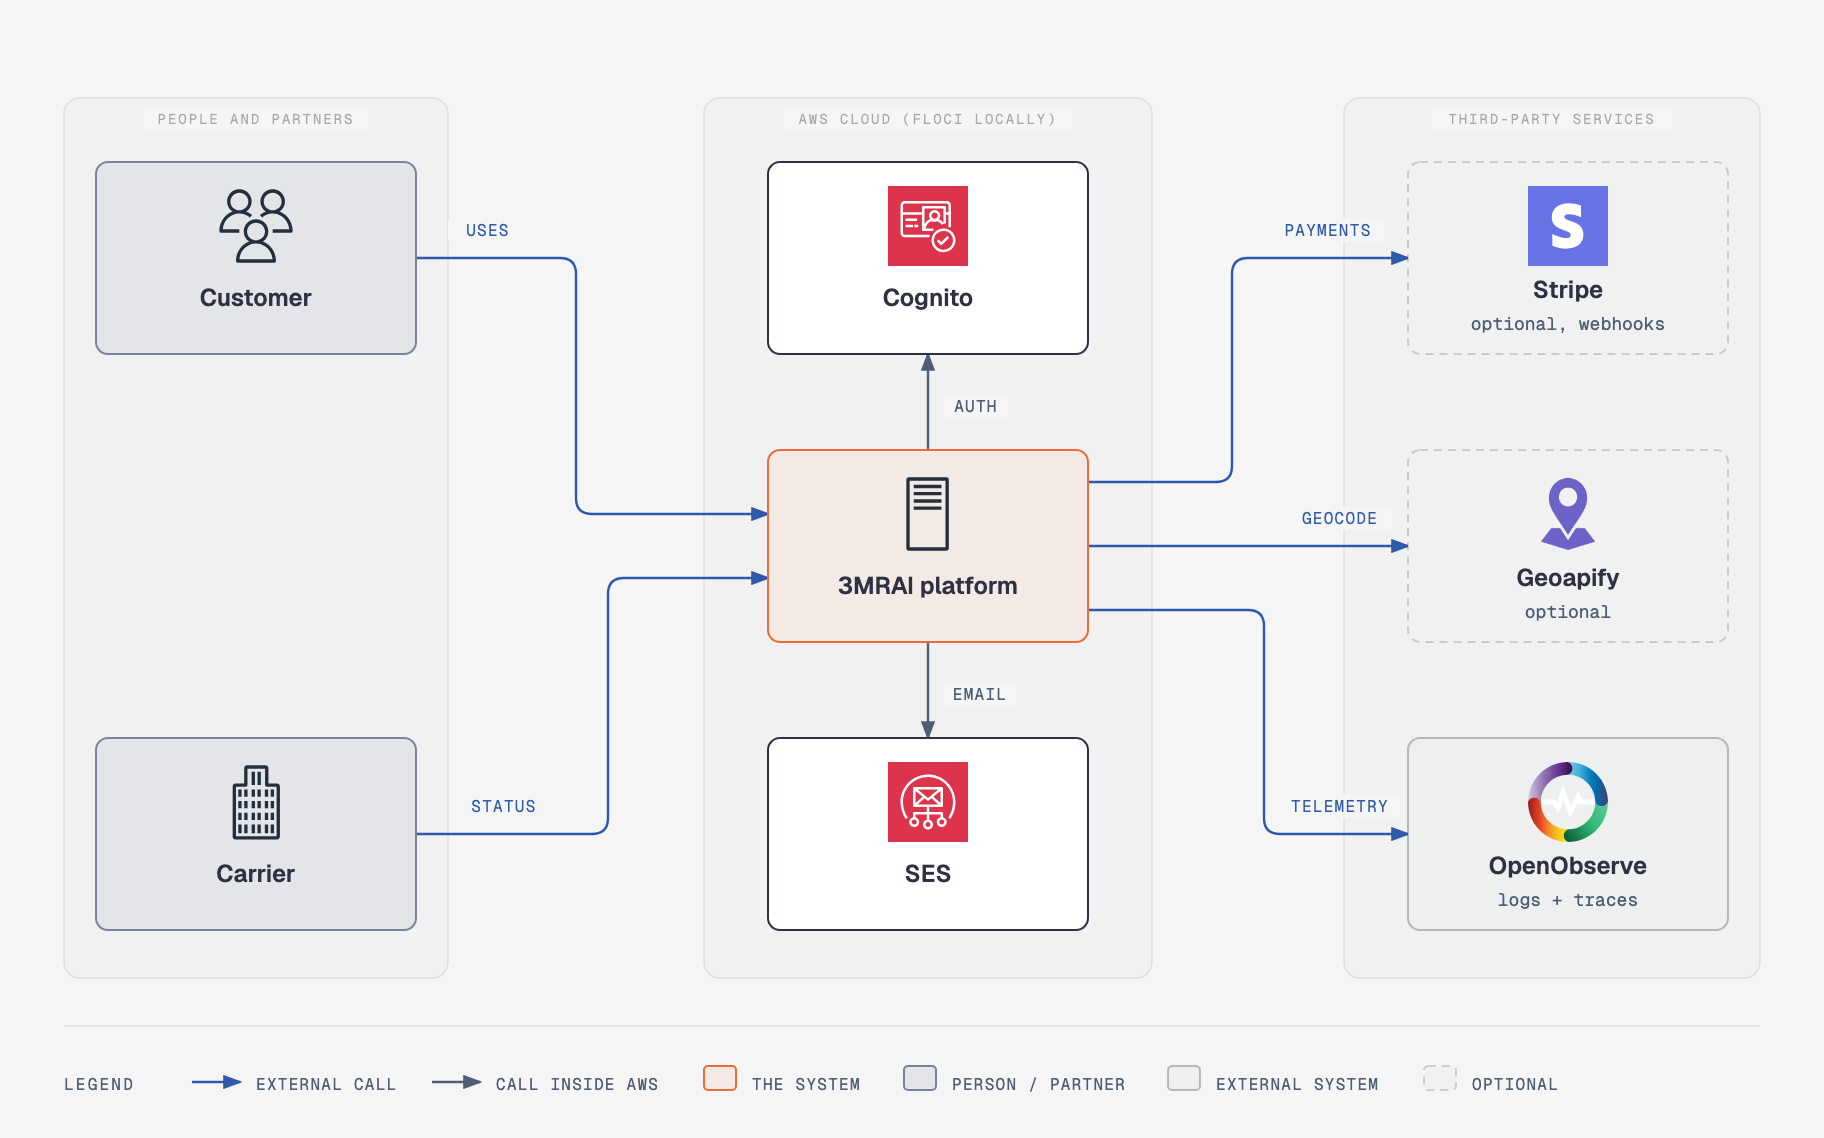
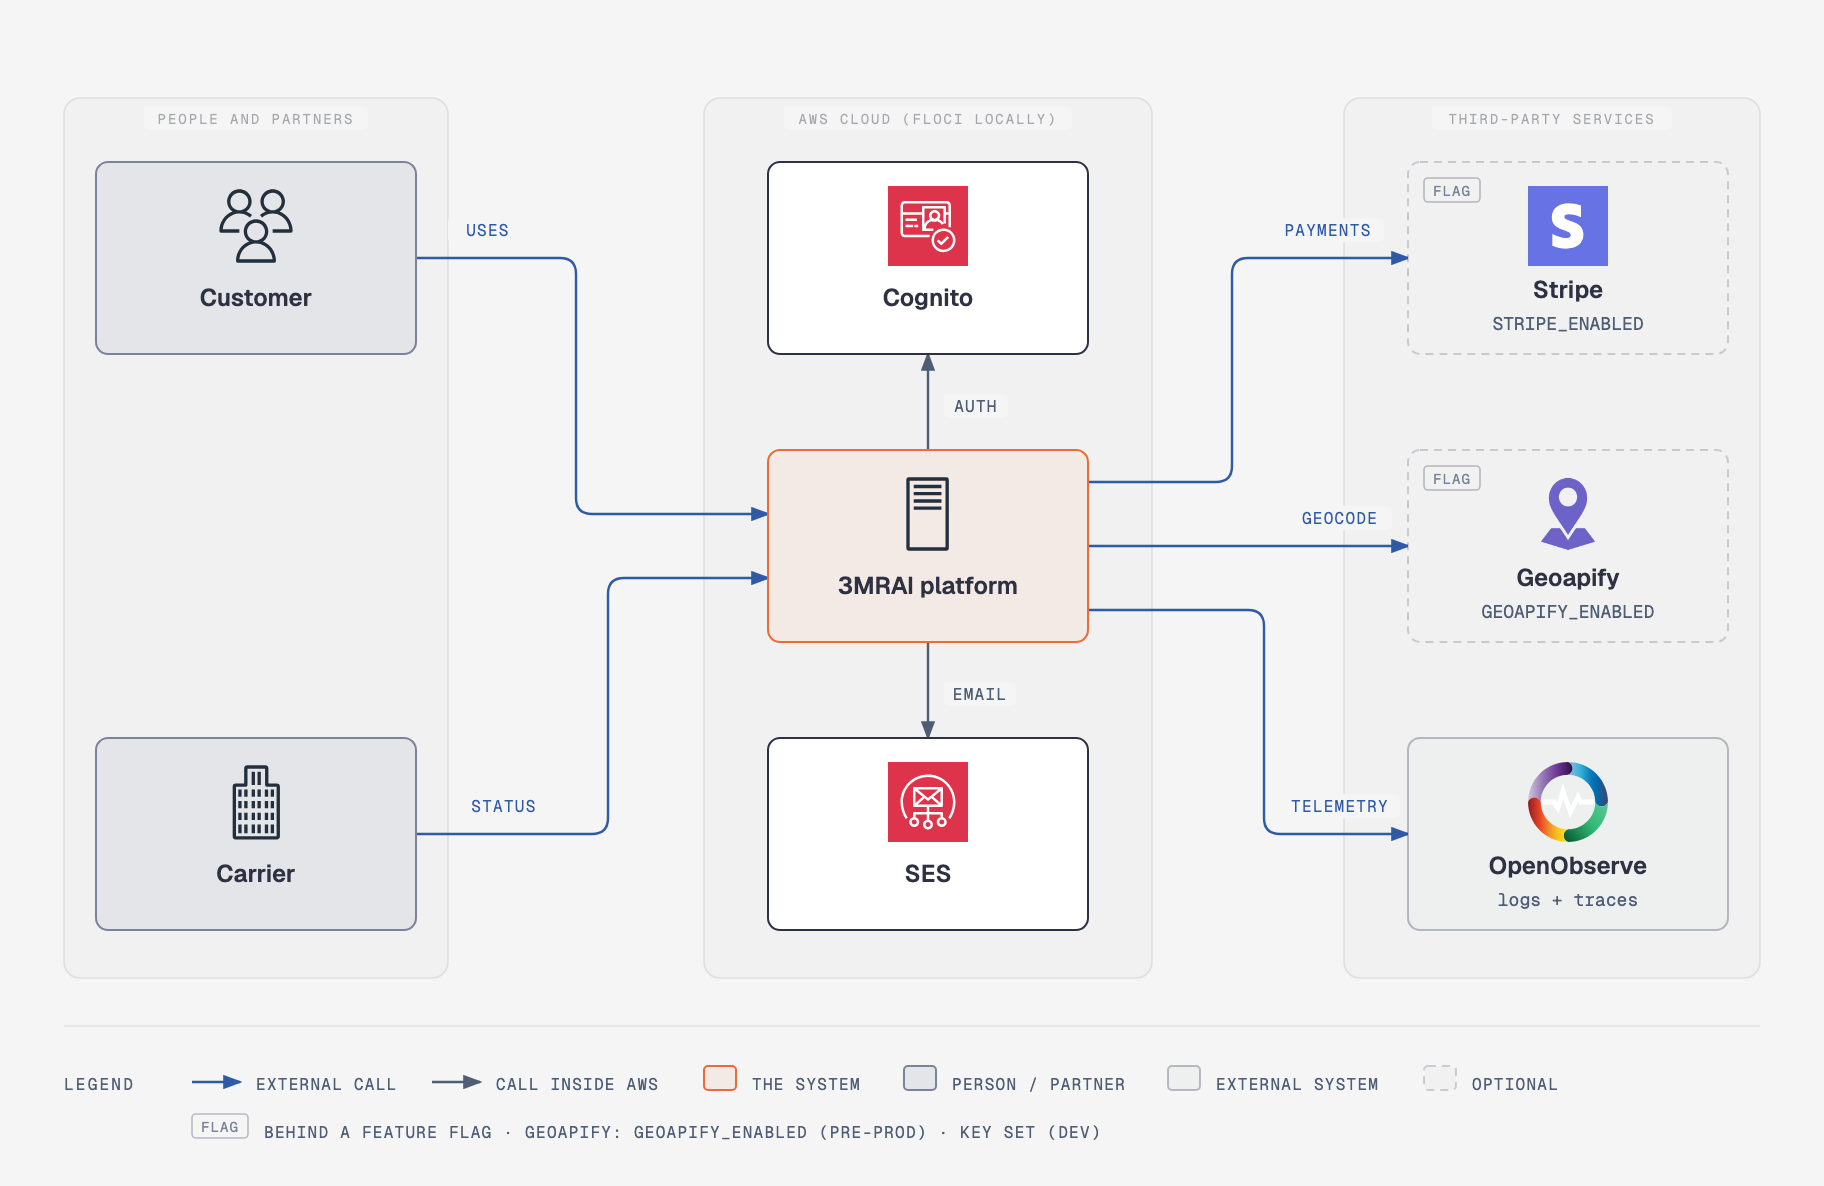
feat(diagrams): mark Stripe and Geoapify as behind a feature flag
Every Stripe and Geoapify node carries a FLAG tag and names the flag it
checks (STRIPE_ENABLED, GEOAPIFY_ENABLED; Geoapify in dev is on when its key
is set), keeps the dashed Optional border, and each legend explains the tag.

Spec: docs/superpowers/specs/2026-10-13-diagram-design-migration-design.md

diff --git a/diagrams/src/system-context/system-context-l1.html b/diagrams/src/system-context/system-context-l1.html
@@ -65,7 +65,7 @@
     <h1>System context — Level 1</h1>
     <p class="subtitle">3MRAI as a black box: who uses it and which systems it depends on</p>
 
-    <svg viewBox="0 0 912 568" xmlns="http://www.w3.org/2000/svg" role="img" aria-labelledby="system-context-l1-title system-context-l1-desc">
+    <svg viewBox="0 0 912 592" xmlns="http://www.w3.org/2000/svg" role="img" aria-labelledby="system-context-l1-title system-context-l1-desc">
       <title id="system-context-l1-title">System context — Level 1</title>
       <desc id="system-context-l1-desc">System context showing customers and carriers using the 3MRAI platform, which relies on Cognito and SES inside AWS and on Stripe, Geoapify and OpenObserve outside it.</desc>
       <defs>
@@ -147,16 +147,20 @@
       <!-- Node: Stripe (optional) -->
       <rect x="704" y="80" width="160" height="96" rx="6" fill="#f5f5f5"/>
       <rect x="704" y="80" width="160" height="96" rx="6" fill="rgba(45,49,66,0.02)" stroke="rgba(45,49,66,0.20)" stroke-width="1" stroke-dasharray="4,3"/>
+      <rect x="712" y="88" width="28" height="12" rx="2" fill="transparent" stroke="rgba(45,49,66,0.30)" stroke-width="0.8"/>
+      <text x="726" y="97" fill="#7a8399" font-size="7" font-family="'Geist Mono', monospace" text-anchor="middle" letter-spacing="0.08em">FLAG</text>
       <image href="https://cdn.jsdelivr.net/gh/stripe/stripe-ios@26.14.0/StripePaymentSheet/StripePaymentSheet/Resources/StripePaymentSheet.xcassets/Link/InstantDebitIcons/bank_icon_stripe.imageset/BrandIcon--stripe.svg" x="764" y="92" width="40" height="40"/>
       <text x="784" y="148" fill="#2d3142" font-size="12" font-weight="600" font-family="'Geist', sans-serif" text-anchor="middle">Stripe</text>
-      <text x="784" y="164" fill="#4f5d75" font-size="9" font-family="'Geist Mono', monospace" text-anchor="middle">optional, webhooks</text>
+      <text x="784" y="164" fill="#4f5d75" font-size="9" font-family="'Geist Mono', monospace" text-anchor="middle">STRIPE_ENABLED</text>
 
       <!-- Node: Geoapify (optional) -->
       <rect x="704" y="224" width="160" height="96" rx="6" fill="#f5f5f5"/>
       <rect x="704" y="224" width="160" height="96" rx="6" fill="rgba(45,49,66,0.02)" stroke="rgba(45,49,66,0.20)" stroke-width="1" stroke-dasharray="4,3"/>
+      <rect x="712" y="232" width="28" height="12" rx="2" fill="transparent" stroke="rgba(45,49,66,0.30)" stroke-width="0.8"/>
+      <text x="726" y="241" fill="#7a8399" font-size="7" font-family="'Geist Mono', monospace" text-anchor="middle" letter-spacing="0.08em">FLAG</text>
       <image href="https://cdn.jsdelivr.net/gh/geoapify/route-planner-sdk@cb2da5f18aee1efa35eb85ab948ffe8e17fcf9a8/docs-site/docs/assets/geoapify-logo-new-125x125.png" x="764" y="236" width="40" height="40"/>
       <text x="784" y="292" fill="#2d3142" font-size="12" font-weight="600" font-family="'Geist', sans-serif" text-anchor="middle">Geoapify</text>
-      <text x="784" y="308" fill="#4f5d75" font-size="9" font-family="'Geist Mono', monospace" text-anchor="middle">optional</text>
+      <text x="784" y="308" fill="#4f5d75" font-size="9" font-family="'Geist Mono', monospace" text-anchor="middle">GEOAPIFY_ENABLED</text>
 
       <!-- Node: OpenObserve -->
       <rect x="704" y="368" width="160" height="96" rx="6" fill="#f5f5f5"/>
@@ -186,6 +190,9 @@
 
       <rect x="712" y="532" width="16" height="12" rx="2" fill="rgba(45,49,66,0.02)" stroke="rgba(45,49,66,0.20)" stroke-width="1" stroke-dasharray="4,3"/>
       <text x="736" y="544" fill="#4f5d75" font-size="8" font-family="'Geist Mono', monospace" letter-spacing="0.08em">OPTIONAL</text>
+      <rect x="96" y="556" width="28" height="12" rx="2" fill="transparent" stroke="rgba(45,49,66,0.30)" stroke-width="0.8"/>
+      <text x="110" y="565" fill="#7a8399" font-size="7" font-family="'Geist Mono', monospace" text-anchor="middle" letter-spacing="0.08em">FLAG</text>
+      <text x="132" y="568" fill="#4f5d75" font-size="8" font-family="'Geist Mono', monospace" letter-spacing="0.08em">BEHIND A FEATURE FLAG · GEOAPIFY: GEOAPIFY_ENABLED (PRE-PROD) · KEY SET (DEV)</text>
     </svg>
   </div>
 </body>

diff --git a/diagrams/src/flows/orders-checkout-stripe.html b/diagrams/src/flows/orders-checkout-stripe.html
@@ -161,7 +161,7 @@
     <p class="eyebrow">Orders · Flow · Local dev on Floci</p>
     <h1>Checkout with a Stripe charge</h1>
 
-    <svg viewBox="0 64 1360 792" xmlns="http://www.w3.org/2000/svg" role="img" aria-labelledby="orders-checkout-stripe-title orders-checkout-stripe-desc">
+    <svg viewBox="0 64 1360 816" xmlns="http://www.w3.org/2000/svg" role="img" aria-labelledby="orders-checkout-stripe-title orders-checkout-stripe-desc">
       <title id="orders-checkout-stripe-title">Checkout with a Stripe charge</title>
       <desc id="orders-checkout-stripe-desc">The Orders service charges a Stripe PaymentIntent before persisting the order in one RDS transaction, publishes ORDER_CREATED through SNS, SQS and the events pipeline to an SES receipt, initializes tracking, replays retries by Idempotency-Key, and reconciles orphan charges through Stripe's webhook.</desc>
       <defs>
@@ -251,11 +251,14 @@
       <image href="https://cdn.jsdelivr.net/npm/aws-icons@3.2.0/icons/resource/Server.svg" x="336" y="488" width="40" height="40"/>
       <text x="356" y="548" class="name" text-anchor="middle">Tracking service</text>
 
-      <!-- Stripe (external) -->
+      <!-- Stripe (external, optional) -->
       <rect x="560" y="124" width="128" height="88" rx="6" fill="#f5f5f5"/>
-      <rect x="560" y="124" width="128" height="88" rx="6" fill="rgba(45,49,66,0.03)" stroke="rgba(45,49,66,0.30)" stroke-width="1"/>
+      <rect x="560" y="124" width="128" height="88" rx="6" fill="rgba(45,49,66,0.02)" stroke="rgba(45,49,66,0.20)" stroke-width="1" stroke-dasharray="4,3"/>
+      <rect x="568" y="132" width="28" height="12" rx="2" fill="transparent" stroke="rgba(45,49,66,0.30)" stroke-width="0.8"/>
+      <text x="582" y="141" fill="#7a8399" font-size="7" font-family="'Geist Mono', monospace" text-anchor="middle" letter-spacing="0.08em">FLAG</text>
       <image href="https://cdn.jsdelivr.net/gh/stripe/stripe-ios@26.14.0/StripePaymentSheet/StripePaymentSheet/Resources/StripePaymentSheet.xcassets/Link/InstantDebitIcons/bank_icon_stripe.imageset/BrandIcon--stripe.svg" x="604" y="136" width="40" height="40"/>
-      <text x="624" y="196" class="name" text-anchor="middle">Stripe</text>
+      <text x="624" y="192" class="name" text-anchor="middle">Stripe</text>
+      <text x="624" y="204" class="sub" text-anchor="middle">STRIPE_ENABLED</text>
 
       <!-- Orders DB (store) -->
       <rect x="832" y="316" width="128" height="88" rx="6" fill="#f5f5f5"/>
@@ -352,6 +355,11 @@
       <text x="856" y="836" class="lbl">FOCAL SERVICE</text>
       <circle class="badge" cx="972" cy="832" r="8"/><text class="badge-n" x="972" y="836" text-anchor="middle">n</text>
       <text x="988" y="836" class="lbl">STEP · SEE CAPTION n</text>
+      <rect x="1124" y="824" width="28" height="12" rx="2" fill="transparent" stroke="rgba(45,49,66,0.30)" stroke-width="0.8"/>
+      <text x="1138" y="833" fill="#7a8399" font-size="7" font-family="'Geist Mono', monospace" text-anchor="middle" letter-spacing="0.08em">FLAG</text>
+      <text x="1160" y="836" class="lbl">BEHIND A FEATURE FLAG</text>
+      <rect x="104" y="852" width="24" height="16" rx="4" fill="rgba(45,49,66,0.02)" stroke="rgba(45,49,66,0.20)" stroke-width="1" stroke-dasharray="4,3"/>
+      <text x="140" y="864" class="lbl">OPTIONAL</text>
     </svg>
 
     <div data-motion-controls role="group" aria-label="Diagram playback controls">

diff --git a/diagrams/src/flows/checkout-address-geocoding-proxy.html b/diagrams/src/flows/checkout-address-geocoding-proxy.html
@@ -160,7 +160,7 @@
     <p class="eyebrow">Orders · Flow · Local dev on Floci</p>
     <h1>Street autocomplete through a same-origin proxy</h1>
 
-    <svg viewBox="0 104 1280 752" xmlns="http://www.w3.org/2000/svg" role="img" aria-labelledby="checkout-address-geocoding-proxy-title checkout-address-geocoding-proxy-desc">
+    <svg viewBox="0 104 1280 776" xmlns="http://www.w3.org/2000/svg" role="img" aria-labelledby="checkout-address-geocoding-proxy-title checkout-address-geocoding-proxy-desc">
       <title id="checkout-address-geocoding-proxy-title">Street autocomplete through a same-origin proxy</title>
       <desc id="checkout-address-geocoding-proxy-desc">The web nginx proxies street autocomplete to Geoapify with a server-side key the browser never sees, logs only those calls to OpenObserve to count the free tier, and proxies the address save through API Gateway's JWT authorizer to the Users service.</desc>
       <defs>
@@ -228,9 +228,11 @@
       <!-- Geoapify (external, optional) -->
       <rect x="592" y="124" width="128" height="88" rx="6" fill="#f5f5f5"/>
       <rect x="592" y="124" width="128" height="88" rx="6" fill="rgba(45,49,66,0.02)" stroke="rgba(45,49,66,0.20)" stroke-width="1" stroke-dasharray="4,3"/>
+      <rect x="600" y="132" width="28" height="12" rx="2" fill="transparent" stroke="rgba(45,49,66,0.30)" stroke-width="0.8"/>
+      <text x="614" y="141" fill="#7a8399" font-size="7" font-family="'Geist Mono', monospace" text-anchor="middle" letter-spacing="0.08em">FLAG</text>
       <image href="https://cdn.jsdelivr.net/gh/geoapify/route-planner-sdk@cb2da5f18aee1efa35eb85ab948ffe8e17fcf9a8/docs-site/docs/assets/geoapify-logo-new-125x125.png" x="636" y="132" width="40" height="40"/>
       <text x="656" y="188" class="name" text-anchor="middle">Geoapify</text>
-      <text x="656" y="204" class="sub" text-anchor="middle">optional</text>
+      <text x="656" y="204" class="sub" text-anchor="middle">GEOAPIFY_ENABLED</text>
 
       <!-- OpenObserve -->
       <rect x="336" y="476" width="128" height="88" rx="6" fill="#f5f5f5"/>
@@ -315,6 +317,9 @@
       <text x="936" y="844" class="lbl">OPTIONAL · KEY MAY BE UNSET</text>
       <circle class="badge" cx="1112" cy="840" r="8"/><text class="badge-n" x="1112" y="844" text-anchor="middle">n</text>
       <text x="1128" y="844" class="lbl">STEP · CAPTION n</text>
+      <rect x="104" y="856" width="28" height="12" rx="2" fill="transparent" stroke="rgba(45,49,66,0.30)" stroke-width="0.8"/>
+      <text x="118" y="865" fill="#7a8399" font-size="7" font-family="'Geist Mono', monospace" text-anchor="middle" letter-spacing="0.08em">FLAG</text>
+      <text x="140" y="868" class="lbl">BEHIND A FEATURE FLAG · GEOAPIFY: GEOAPIFY_ENABLED (PRE-PROD) · KEY SET (DEV)</text>
     </svg>
 
     <div data-motion-controls role="group" aria-label="Diagram playback controls">

diff --git a/diagrams/src/architecture/architecture-preprod.html b/diagrams/src/architecture/architecture-preprod.html
@@ -164,9 +164,11 @@
       <!-- Node: Stripe (optional) -->
       <rect x="1112" y="16" width="160" height="96" rx="6" fill="#f5f5f5"/>
       <rect x="1112" y="16" width="160" height="96" rx="6" fill="rgba(45,49,66,0.02)" stroke="rgba(45,49,66,0.20)" stroke-width="1" stroke-dasharray="4,3"/>
+      <rect x="1120" y="24" width="28" height="12" rx="2" fill="transparent" stroke="rgba(45,49,66,0.30)" stroke-width="0.8"/>
+      <text x="1134" y="33" fill="#7a8399" font-size="7" font-family="'Geist Mono', monospace" text-anchor="middle" letter-spacing="0.08em">FLAG</text>
       <image href="https://cdn.jsdelivr.net/gh/stripe/stripe-ios@26.14.0/StripePaymentSheet/StripePaymentSheet/Resources/StripePaymentSheet.xcassets/Link/InstantDebitIcons/bank_icon_stripe.imageset/BrandIcon--stripe.svg" x="1172" y="28" width="40" height="40"/>
       <text x="1192" y="84" fill="#2d3142" font-size="12" font-weight="600" font-family="'Geist', sans-serif" text-anchor="middle">Stripe</text>
-      <text x="1192" y="100" fill="#4f5d75" font-size="9" font-family="'Geist Mono', monospace" text-anchor="middle">optional</text>
+      <text x="1192" y="100" fill="#4f5d75" font-size="9" font-family="'Geist Mono', monospace" text-anchor="middle">STRIPE_ENABLED</text>
       <!-- Node: Browser (SPA) -->
       <rect x="40" y="432" width="160" height="96" rx="6" fill="#f5f5f5"/>
       <rect x="40" y="432" width="160" height="96" rx="6" fill="rgba(79,93,117,0.10)" stroke="#7a8399" stroke-width="1"/>
@@ -324,6 +326,9 @@
       <text x="1036" y="1137" fill="#7a8399" font-size="7" font-family="'Geist Mono', monospace" text-anchor="middle" letter-spacing="0.08em">VPC</text>
       <text x="1056" y="1140" fill="#4f5d75" font-size="8" font-family="'Geist Mono', monospace" letter-spacing="0.08em">RUNS IN VPC 10.1.0.0/16 · PUBLIC SUBNETS 10.1.1.0/24 (US-EAST-1A) + 10.1.2.0/24 (US-EAST-1B) · 1 TASK PER SERVICE</text>
       <text x="112" y="1164" fill="#4f5d75" font-size="8" font-family="'Geist Mono', monospace" letter-spacing="0.08em">EVERY TASK LOGS TO CLOUDWATCH · THE EVENTS-PIPELINE LAMBDA ALSO LOGS AND PUTS METRICS TO CLOUDWATCH AND SENDS TRACES TO THE COLLECTOR</text>
+      <rect x="976" y="1152" width="28" height="12" rx="2" fill="transparent" stroke="rgba(45,49,66,0.30)" stroke-width="0.8"/>
+      <text x="990" y="1161" fill="#7a8399" font-size="7" font-family="'Geist Mono', monospace" text-anchor="middle" letter-spacing="0.08em">FLAG</text>
+      <text x="1012" y="1164" fill="#4f5d75" font-size="8" font-family="'Geist Mono', monospace" letter-spacing="0.08em">BEHIND A FEATURE FLAG</text>
     </svg>
   </div>
 </body>

diff --git a/diagrams/src/architecture/architecture-dev-floci.html b/diagrams/src/architecture/architecture-dev-floci.html
@@ -131,9 +131,11 @@
       <!-- Node: Stripe (optional) -->
       <rect x="40" y="176" width="160" height="96" rx="6" fill="#f5f5f5"/>
       <rect x="40" y="176" width="160" height="96" rx="6" fill="rgba(45,49,66,0.02)" stroke="rgba(45,49,66,0.20)" stroke-width="1" stroke-dasharray="4,3"/>
+      <rect x="48" y="184" width="28" height="12" rx="2" fill="transparent" stroke="rgba(45,49,66,0.30)" stroke-width="0.8"/>
+      <text x="62" y="193" fill="#7a8399" font-size="7" font-family="'Geist Mono', monospace" text-anchor="middle" letter-spacing="0.08em">FLAG</text>
       <image href="https://cdn.jsdelivr.net/gh/stripe/stripe-ios@26.14.0/StripePaymentSheet/StripePaymentSheet/Resources/StripePaymentSheet.xcassets/Link/InstantDebitIcons/bank_icon_stripe.imageset/BrandIcon--stripe.svg" x="100" y="188" width="40" height="40"/>
       <text x="120" y="244" fill="#2d3142" font-size="12" font-weight="600" font-family="'Geist', sans-serif" text-anchor="middle">Stripe</text>
-      <text x="120" y="260" fill="#4f5d75" font-size="9" font-family="'Geist Mono', monospace" text-anchor="middle">optional</text>
+      <text x="120" y="260" fill="#4f5d75" font-size="9" font-family="'Geist Mono', monospace" text-anchor="middle">STRIPE_ENABLED</text>
       <!-- Node: Browser (SPA) -->
       <rect x="40" y="384" width="160" height="96" rx="6" fill="#f5f5f5"/>
       <rect x="40" y="384" width="160" height="96" rx="6" fill="rgba(79,93,117,0.10)" stroke="#7a8399" stroke-width="1"/>
@@ -229,6 +231,9 @@
       <text x="1224" y="740" fill="#4f5d75" font-size="8" font-family="'Geist Mono', monospace" letter-spacing="0.08em">ASYNC</text>
       <rect x="1288" y="728" width="16" height="12" rx="2" fill="rgba(45,49,66,0.02)" stroke="rgba(45,49,66,0.20)" stroke-width="1" stroke-dasharray="4,3"/>
       <text x="1312" y="740" fill="#4f5d75" font-size="8" font-family="'Geist Mono', monospace" letter-spacing="0.08em">OPTIONAL</text>
+      <rect x="1384" y="728" width="28" height="12" rx="2" fill="transparent" stroke="rgba(45,49,66,0.30)" stroke-width="0.8"/>
+      <text x="1398" y="737" fill="#7a8399" font-size="7" font-family="'Geist Mono', monospace" text-anchor="middle" letter-spacing="0.08em">FLAG</text>
+      <text x="1420" y="740" fill="#4f5d75" font-size="8" font-family="'Geist Mono', monospace" letter-spacing="0.08em">BEHIND A FEATURE FLAG</text>
     </svg>
   </div>
 </body>

diff --git a/diagrams/CLAUDE.md b/diagrams/CLAUDE.md
@@ -57,6 +57,7 @@ The four pilots are the reference implementation; open the one of the same kind 
 - **An arrow points from the caller.** A pull receiver points at the polled service (e.g. the OTel collector polling CloudWatch, labelled `POLLS`; ECS pulling images, `PULLS IMAGES`; ECS reading task config, `READS CONFIG`). Exception: a queue → consumer edge points at the consumer, dashed, labelled by what it carries (`TRIGGERS`, `NOTIFY`) — the common AWS reading of a queue.
 - **No routes in labels, even when carrying content over 1:1:** `/v1 via web` becomes `API VIA WEB`. Labels ≤14 characters, uppercase.
 - **Stripe, Geoapify and OpenObserve use their `vendor` logo**; other external SaaS without one uses the `internet` icon. Optional integrations take the skill's dashed Optional treatment.
+- **An integration behind a feature flag** keeps the dashed Optional border, carries a `FLAG` tag (same chip as `VPC` / `COMPOSE` / `ECS`) and names the flag the code checks in its sublabel (e.g. `STRIPE_ENABLED`).
 - **Trim the viewBox** to the content so the PNG has no empty band at the top.
 
 ## Read the source before drawing
